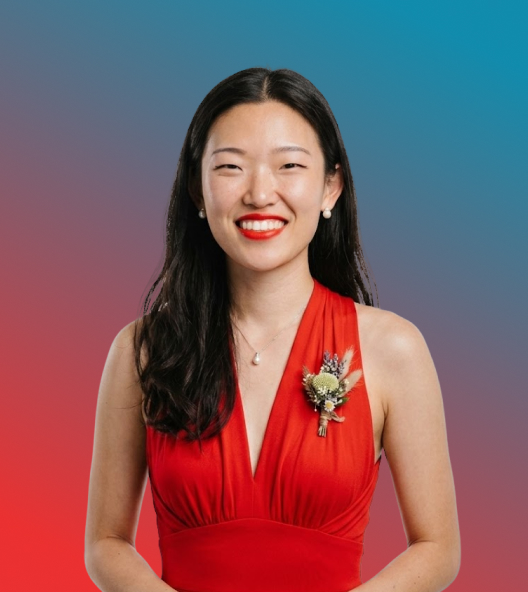
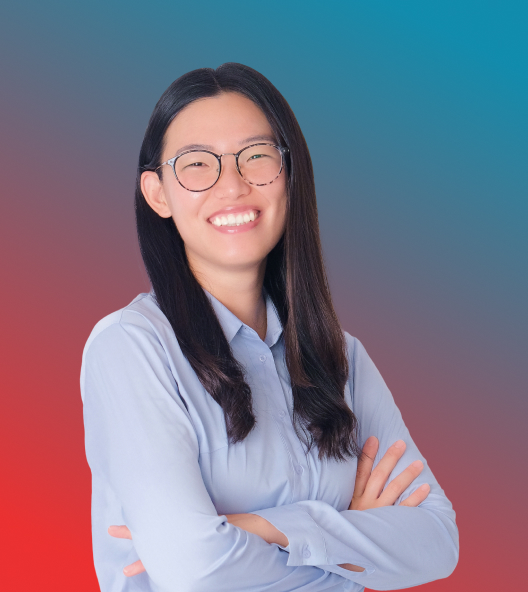
Side-event/Day-5 headshot schedules, Cristina photo, Mudi removal, visa note
- Agenda: Sat/Sun Sep 12-13 side events and the Day 5 VIP Networking day now
  use the Day 3/4 timeline format (speaker headshot + name + title per session),
  with full run-of-show, breaks, and the MGM gala schedule
- Remove Mudi Elsaid from /speakers side events and set his agenda slot to TBD;
  reword both side-event Doors Open lines
- Speakers: replace Cristina Song headshot; move VIP_NETWORKING + SIDE_EVENTS
  into shared lib/lineup.ts so /speakers and /agenda share one source
- visit-shenzhen: reword the ferry/rail itinerary note (entry-only, bold ports,
  depart-by-air clause)

diff --git a/app/(home5)/agenda/page.tsx b/app/(home5)/agenda/page.tsx
@@ -5,7 +5,15 @@ import Link from 'next/link';
 import { useState } from 'react';
 
 import { ArrowUpRight, BackToTop, Footer, Nav } from '../_components/shared';
-import { KEYNOTES, WORKSHOPS, FIELD_TALKS, LIGHTNING_TALKS, type Speaker } from '@/lib/lineup';
+import {
+  KEYNOTES,
+  WORKSHOPS,
+  FIELD_TALKS,
+  LIGHTNING_TALKS,
+  VIP_NETWORKING as VIP_SPEAKERS,
+  SIDE_EVENTS as SIDE_EVENT_SPEAKERS,
+  type Speaker,
+} from '@/lib/lineup';
 
 /* ────────────────────────────────── TIERS ────────────────────────────────── */
 
@@ -205,7 +213,9 @@ type SideEvent = {
   details: { label: string; value: React.ReactNode }[];
 };
 
-type SideEventRow = { time: string; title: string; speaker?: string; sub?: string };
+// `speakers` are names resolved to headshot + title via the shared lineup (same as
+// Day 3 / Day 4). `speakerText` is a plain fallback for non-people (e.g. TBD/TBC).
+type SideEventRow = { time: string; title: string; speakers?: string[]; speakerText?: string; sub?: string };
 
 function SideEventSchedule({ rows }: { rows: SideEventRow[] }) {
   return (
@@ -213,7 +223,7 @@ function SideEventSchedule({ rows }: { rows: SideEventRow[] }) {
       {rows.map((r) => (
         <li
           key={r.time}
-          className="flex flex-col sm:flex-row sm:gap-4 py-3 border-t border-white/[0.08] first:border-t-0 first:pt-0"
+          className="flex flex-col sm:flex-row sm:gap-4 py-4 border-t border-white/[0.08] first:border-t-0 first:pt-0"
         >
           <div
             className="shrink-0 sm:w-[150px] mb-1 sm:mb-0 text-[13px] md:text-[14px]"
@@ -223,8 +233,9 @@ function SideEventSchedule({ rows }: { rows: SideEventRow[] }) {
           </div>
           <div className="min-w-0">
             <div className="text-[14px] md:text-[15px] font-semibold text-white leading-snug">{r.title}</div>
-            {r.speaker ? <div className="mt-0.5 text-[13px] text-white/55">{r.speaker}</div> : null}
-            {r.sub ? <div className="mt-0.5 text-[13px] text-white/45">{r.sub}</div> : null}
+            {r.sub ? <div className="mt-1 text-[13px] text-white/45 leading-snug">{r.sub}</div> : null}
+            {r.speakers ? <SpeakerLine names={r.speakers} /> : null}
+            {r.speakerText ? <div className="mt-2 text-[13px] text-white/55">{r.speakerText}</div> : null}
           </div>
         </li>
       ))}
@@ -236,37 +247,37 @@ const SAT_SEP_12_SCHEDULE: SideEventRow[] = [
   {
     time: '12:30 PM – 1:00 PM',
     title: 'Doors Open & Check-in',
-    sub: 'Attendee registration, badge pickup, and early networking.',
+    sub: 'Arrival, registration, and early afternoon networking.',
   },
-  { time: '1:00 PM – 1:10 PM', title: 'Opening Remarks', speaker: 'Event Host (JP/John Zhang)' },
+  { time: '1:00 PM – 1:10 PM', title: 'Opening Remarks', speakers: ['JP Zhang'] },
   {
     time: '1:10 PM – 1:50 PM',
     title: 'Winning AI Search: A 4-Step Guide for Chinese Companies',
-    speaker: 'Tanya Van Gastel',
+    speakers: ['Tanya Van Gastel'],
   },
   {
     time: '1:50 PM – 2:30 PM',
-    title: 'AI Partner Discovery: Finding Qualified Affiliates & Influencers at Scale',
-    speaker: 'Mudi Elsaid',
+    title: 'TBD',
+    speakerText: 'TBD',
   },
   { time: '2:30 PM – 2:50 PM', title: 'Casual Networking & Coffee Break' },
   {
     time: '2:50 PM – 3:30 PM',
     title: 'From AI Tools to B2B Growth Systems: Building Workflows That Actually Run',
-    speaker: 'Jacky Lin',
+    speakers: ['Jacky Lin'],
   },
   {
     time: '3:30 PM – 4:10 PM',
     title: 'Winning in the West: Agentic Digital PR for Chinese Brands',
-    speaker: 'Sacha Fournier',
+    speakers: ['Sacha Fournier'],
   },
   { time: '4:10 PM – 4:30 PM', title: 'Casual Networking & Coffee Break' },
   {
     time: '4:30 PM – 5:10 PM',
     title: 'Build Your AI Workforce: A 24/7 Multi-agent Chief of Staff',
-    speaker: 'Vinayak Gupta & Sharoz Dawa',
+    speakers: ['Vinayak Gupta', 'Sharoz Dawa'],
   },
-  { time: '5:10 PM – 5:20 PM', title: 'Closing Remarks', speaker: 'Event Host (JP/John Zhang)' },
+  { time: '5:10 PM – 5:20 PM', title: 'Closing Remarks', speakers: ['JP Zhang'] },
 ];
 
 const SAT_SEP_12_DETAILS = [
@@ -284,38 +295,38 @@ const SUN_SEP_13_SCHEDULE: SideEventRow[] = [
   {
     time: '12:30 PM – 1:00 PM',
     title: 'Doors Open & Check-in',
-    sub: 'Arrival, registration, and initial afternoon mixing.',
+    sub: 'Arrival, registration, and early afternoon networking.',
   },
-  { time: '1:00 PM – 1:10 PM', title: 'Opening Remarks', speaker: 'Event Host (JP/John Zhang)' },
+  { time: '1:00 PM – 1:10 PM', title: 'Opening Remarks', speakers: ['JP Zhang'] },
   {
     time: '1:10 PM – 1:50 PM',
     title: 'How Chinese Brands Can Use Affiliates & Influencers To Grow AI Visibility & Revenue in USA',
-    speaker: 'Jamie I.F.',
+    speakers: ['Jamie I.F.'],
   },
   {
     time: '1:50 PM – 2:30 PM',
     title: "S.P.A.C.E.: A Five-Dimension Framework for Exporters Who've Hit a Growth Ceiling",
-    speaker: 'Tori Long',
+    speakers: ['Tori Long'],
   },
   { time: '2:30 PM – 2:50 PM', title: 'Casual Networking & Coffee Break' },
   {
     time: '2:50 PM – 3:30 PM',
     title: 'How to Talk So the C-Suites Will Listen: Lessons Learned from Teaching & Implementing SEO for 12+ Years',
-    speaker: 'Ilman Akbar',
+    speakers: ['Ilman Akbar'],
   },
   {
     time: '3:30 PM – 4:10 PM',
     title: 'Dominating LLMs, AiO & Google Rankings with Consensus',
-    speaker: 'Jabez Reuben',
+    speakers: ['Jabez Reuben'],
   },
   { time: '4:10 PM – 4:30 PM', title: 'Casual Networking & Coffee Break' },
   {
     time: '4:30 PM – 5:10 PM',
     title: 'Guest Session',
-    speaker: 'TBC',
+    speakerText: 'TBC',
     sub: 'Final Open Slot, topic to be announced.',
   },
-  { time: '5:10 PM – 5:20 PM', title: 'Side-Event Wrap-up', speaker: 'Event Host (JP/John Zhang)' },
+  { time: '5:10 PM – 5:20 PM', title: 'Side-Event Wrap-up', speakers: ['JP Zhang'] },
 ];
 
 const SUN_SEP_13_DETAILS = [
@@ -481,7 +492,10 @@ type ScheduleRow =
 // the shared lineup; a few (host, and Kun Tang) aren't public speakers, and one name
 // is spelled differently on the agenda than in the lineup.
 const LINEUP_BY_NAME = new Map<string, Speaker>(
-  [...KEYNOTES, ...WORKSHOPS, ...FIELD_TALKS, ...LIGHTNING_TALKS].map((s) => [s.name.toLowerCase(), s]),
+  [...KEYNOTES, ...WORKSHOPS, ...FIELD_TALKS, ...LIGHTNING_TALKS, ...VIP_SPEAKERS, ...SIDE_EVENT_SPEAKERS].map((s) => [
+    s.name.toLowerCase(),
+    s,
+  ]),
 );
 const NAME_ALIASES: Record<string, string> = {
   'joshua blyskal': 'Josh Blyskal',
@@ -977,6 +991,60 @@ function CityToursMatrix() {
   );
 }
 
+// Day 5 (VIP Networking) sub-schedules, rendered inside their block bodies.
+const DAY5_EXCHANGE: SideEventRow[] = [
+  { time: '3:00 PM – 3:05 PM', title: 'Opening Remarks', speakers: ['JP Zhang'] },
+  {
+    time: '3:05 PM – 3:25 PM',
+    title: 'VIP Keynote',
+    sub: 'Topic to be confirmed soon.',
+    speakerText: 'Nick White',
+  },
+  {
+    time: '3:25 PM – 3:55 PM',
+    title: 'Speed Roundtable Networking #1',
+    sub: 'Two rounds, 15 minutes each.',
+  },
+  { time: '3:55 PM – 4:15 PM', title: 'Coffee & Tea Break' },
+  {
+    time: '4:15 PM – 4:35 PM',
+    title: 'Executive Insight: How Search Is Fragmented in China',
+    speakers: ['Marcus Pentzek'],
+  },
+  {
+    time: '4:35 PM – 5:05 PM',
+    title: 'Speed Roundtable Networking #2',
+    sub: 'Two rounds, 15 minutes each.',
+  },
+  { time: '5:05 PM – 5:20 PM', title: 'Premium Coffee & Tea Break' },
+  {
+    time: '5:20 PM – 5:40 PM',
+    title: 'Agency Owners Panel: Chinese Manufacturing vs. Silicon Valley SaaS (An Agency Reality Check)',
+    sub: 'Panel with Tom So & Tanya Van Gastel, moderated by JP / John Zhang. A raw operational look at what it really takes to close and retain high-ticket clients in Eastern manufacturing vs. Western SaaS.',
+    speakers: ['Tom So', 'Tanya Van Gastel', 'JP Zhang'],
+  },
+  {
+    time: '5:40 PM – 6:10 PM',
+    title: 'Speed Roundtable Networking #3',
+    sub: 'Two rounds, 15 minutes each.',
+  },
+  { time: '6:10 PM – 6:15 PM', title: 'Closing Remarks & Gala Briefing', speakers: ['JP Zhang'] },
+];
+
+const DAY5_GALA: SideEventRow[] = [
+  {
+    time: '6:30 PM – 7:00 PM',
+    title: 'Sunset Golden Hour & Open Cocktails',
+    sub: 'High-end open bar.',
+  },
+  { time: '7:00 PM – 9:30 PM', title: 'Beachfront VIP Dinner', sub: 'With live jazz band sets.' },
+  {
+    time: '9:30 PM',
+    title: 'The Closing Toast',
+    sub: 'Final celebratory champagne toast and official conclusion of the 5-day summit.',
+  },
+];
+
 const CONFERENCE_DAYS: ConferenceDay[] = [
   {
     dayLabel: 'Day 1 · Mon Sep 14',
@@ -1082,8 +1150,8 @@ const CONFERENCE_DAYS: ConferenceDay[] = [
         Different venue. Different register. This is where the actual deals get signed.
         <br />
         <span className="italic text-white/65">
-          ~100 people: VIP ticket holders, speakers, sponsors. Includes 1 night at MGM and
-          all meals.
+          Exclusive to VIP ticket holders and speakers. Includes a 1-night stay at MGM and all
+          meals.
         </span>
       </>
     ),
@@ -1098,33 +1166,43 @@ const CONFERENCE_DAYS: ConferenceDay[] = [
         body: (
           <>
             <span className="block">
-              <strong className="text-white font-semibold">Group size -</strong> ~100 people
-              (VIP ticket holders, speakers, sponsors)
+              <strong className="text-white font-semibold">Access -</strong> exclusive to VIP
+              ticket holders and speakers
             </span>
             <span className="block mt-1">
-              <strong className="text-white font-semibold">Included -</strong> 1 night stay
-              at MGM, all meals, curated networking activities
+              <strong className="text-white font-semibold">Included -</strong> 1-night stay at
+              MGM and all meals
             </span>
           </>
         ),
       },
       {
         time: '12:00 PM – 3:00 PM',
-        title: 'The Transition, Lunch & Check-In',
+        title: 'The Transition & Check-In',
         body:
-          'Luxury coach transfer from The St. Regis to MGM Shenzhen (lunch provided), followed by check-in and local welcome tea.',
+          'Luxury coach transfer from The St. Regis Shenzhen to MGM Shenzhen (lunch provided), followed by check-in and local welcome tea.',
       },
       {
-        time: '3:00 PM – 6:00 PM',
+        time: '3:00 PM – 6:15 PM',
         title: 'The Strategic Exchange (Indoor)',
-        body:
-          'A high-energy, structured afternoon featuring expert talks and panels, with three rounds of speed roundtable networking.',
+        body: (
+          <>
+            A high-energy, structured afternoon featuring focused expert sessions, tactical
+            industry debates, and three rounds of dedicated speed roundtable networking.
+            <SideEventSchedule rows={DAY5_EXCHANGE} />
+          </>
+        ),
       },
       {
-        time: '6:00 PM – 9:30 PM',
+        time: '6:30 PM – 9:30 PM',
         title: 'The Beachfront Gala (MGM Lawn)',
-        body:
-          'Sunset cocktail hour with professional beachside portrait photography, followed by a curated, premium VIP dinner by the ocean.',
+        body: (
+          <>
+            An exclusive beachside evening shifting from formal conference metrics to relaxed,
+            high-end luxury by the ocean waves.
+            <SideEventSchedule rows={DAY5_GALA} />
+          </>
+        ),
       },
     ],
   },

diff --git a/app/(home5)/speakers/page.tsx b/app/(home5)/speakers/page.tsx
@@ -5,7 +5,7 @@ import Link from 'next/link';
 import { useRef, useState, type FormEvent } from 'react';
 
 import { ArrowUpRight, BackToTop, Footer, Nav } from '../_components/shared';
-import { KEYNOTES, WORKSHOPS, FIELD_TALKS, LIGHTNING_TALKS, type Speaker } from '@/lib/lineup';
+import { KEYNOTES, WORKSHOPS, FIELD_TALKS, LIGHTNING_TALKS, VIP_NETWORKING, SIDE_EVENTS, type Speaker } from '@/lib/lineup';
 
 /* ────────────────────── DATA (placeholder — swap with real list) ─────────────────── */
 
@@ -79,24 +79,6 @@ const SPEAKER_POOL: Speaker[] = [
 function pickSpeakers(start: number, count: number): Speaker[] {
   return Array.from({ length: count }, (_, i) => SPEAKER_POOL[(start + i) % SPEAKER_POOL.length]);
 }
-
-const VIP_NETWORKING: Speaker[] = [
-  { name: 'Tanya Van Gastel', country: 'Belgium', title: 'Founder, Rankingonai.com', img: '/assets/tanya-van-gastel.webp' },
-  { name: 'Marcus Pentzek', country: 'Germany & China', title: 'Partner & Director SEO, Jademond Digital', img: '/assets/marcus-pentzek.jpg' },
-  { name: 'Tom So', country: 'China', title: 'Founder & CEO, MML Digital (慢慢来)', img: '/assets/tom-so.jpg' },
-];
-const SIDE_EVENTS: Speaker[] = [
-  { name: 'Tanya Van Gastel', country: 'Belgium', title: 'Founder, Rankingonai.com', img: '/assets/tanya-van-gastel.webp' },
-  { name: 'Mudi Elsaid', country: 'Egypt & Italy', title: 'Founder, Tasken.ai', img: '/assets/mudi-elsaid.jpg' },
-  { name: 'Sacha Fournier', country: 'UK', title: 'Founder, JournoFinder.com', img: '/assets/sacha-fournier.jpg' },
-  { name: 'Jamie I.F.', country: 'UK', title: 'Founder, AffiliateFinder.ai', img: '/assets/jamie-if.webp' },
-  { name: 'Vinayak Gupta', country: 'India', title: 'Founder, Serpbays', img: '/assets/vinayak-gupta.webp' },
-  { name: 'Sharoz Dawa', country: 'India', title: 'SEO Lead, Fynd', img: '/assets/sharoz-dawa.jpg' },
-  { name: 'Jabez Reuben', country: 'India', title: 'Founder, The Blueprints', img: '/assets/jabez-reuben.jpg' },
-  { name: 'Ilman Akbar', country: 'Indonesia', title: 'Founder & CEO, DailySEO ID & DLYS Consulting', img: '/assets/ilman-akbar.webp' },
-  { name: 'Tori Long', country: 'China', title: 'Marketing Director, GWTime', img: '/assets/tori-long.webp' },
-  { name: 'Jacky Lin', country: 'China', title: 'Founder, Wingfuture', img: '/assets/jacky-lin.webp' },
-];
 
 const WHO_TOOK_STAGE = [
   { name: 'Terry Kyle', title: 'Ex-eBay, WPX.net', img: '/figma-assets/jp-avatar.png' },

diff --git a/lib/lineup.ts b/lib/lineup.ts
@@ -68,6 +68,25 @@ export const LIGHTNING_TALKS: Speaker[] = [
   { name: 'Tupa Lee', country: 'China', title: 'SEO & SEM Consultant', img: '/assets/tupa-lee.jpg' },
 ];
 
+// Networking and pre-conference side-event speakers (not part of the main-stage
+// categories). Shared so both /speakers and the agenda resolve their headshots/titles.
+export const VIP_NETWORKING: Speaker[] = [
+  { name: 'Tanya Van Gastel', country: 'Belgium', title: 'Founder, Rankingonai.com', img: '/assets/tanya-van-gastel.webp' },
+  { name: 'Marcus Pentzek', country: 'Germany & China', title: 'Partner & Director SEO, Jademond Digital', img: '/assets/marcus-pentzek.jpg' },
+  { name: 'Tom So', country: 'China', title: 'Founder & CEO, MML Digital (慢慢来)', img: '/assets/tom-so.jpg' },
+];
+export const SIDE_EVENTS: Speaker[] = [
+  { name: 'Tanya Van Gastel', country: 'Belgium', title: 'Founder, Rankingonai.com', img: '/assets/tanya-van-gastel.webp' },
+  { name: 'Sacha Fournier', country: 'UK', title: 'Founder, JournoFinder.com', img: '/assets/sacha-fournier.jpg' },
+  { name: 'Jamie I.F.', country: 'UK', title: 'Founder, AffiliateFinder.ai', img: '/assets/jamie-if.webp' },
+  { name: 'Vinayak Gupta', country: 'India', title: 'Founder, Serpbays', img: '/assets/vinayak-gupta.webp' },
+  { name: 'Sharoz Dawa', country: 'India', title: 'SEO Lead, Fynd', img: '/assets/sharoz-dawa.jpg' },
+  { name: 'Jabez Reuben', country: 'India', title: 'Founder, The Blueprints', img: '/assets/jabez-reuben.jpg' },
+  { name: 'Ilman Akbar', country: 'Indonesia', title: 'Founder & CEO, DailySEO ID & DLYS Consulting', img: '/assets/ilman-akbar.webp' },
+  { name: 'Tori Long', country: 'China', title: 'Marketing Director, GWTime', img: '/assets/tori-long.webp' },
+  { name: 'Jacky Lin', country: 'China', title: 'Founder, Wingfuture', img: '/assets/jacky-lin.webp' },
+];
+
 // Category label -> its speakers, in display order.
 export const LINEUP: { label: Category; speakers: Speaker[] }[] = [
   { label: 'Keynote', speakers: KEYNOTES },

diff --git a/app/(home5)/visit-shenzhen/page.tsx b/app/(home5)/visit-shenzhen/page.tsx
@@ -531,7 +531,17 @@ function Visa() {
                 {
                   ok: true,
                   route: 'London ➔ Hong Kong ➔ Shenzhen (by ferry or rail) ➔ Singapore',
-                  note: 'Valid only when you enter/exit Shenzhen exclusively via Shekou Port (ferry) or West Kowloon Station (High-Speed Rail).',
+                  note: (
+                    <>
+                      Valid only for entry into Shenzhen via{' '}
+                      <strong style={{ color: '#F9F9F9', fontWeight: 700 }}>Shekou Port (ferry)</strong> or{' '}
+                      <strong style={{ color: '#F9F9F9', fontWeight: 700 }}>
+                        West Kowloon Station (High-Speed Rail)
+                      </strong>
+                      . You must depart mainland China by air to a third country or region (excluding
+                      Hong Kong).
+                    </>
+                  ),
                 },
                 {
                   ok: true,
